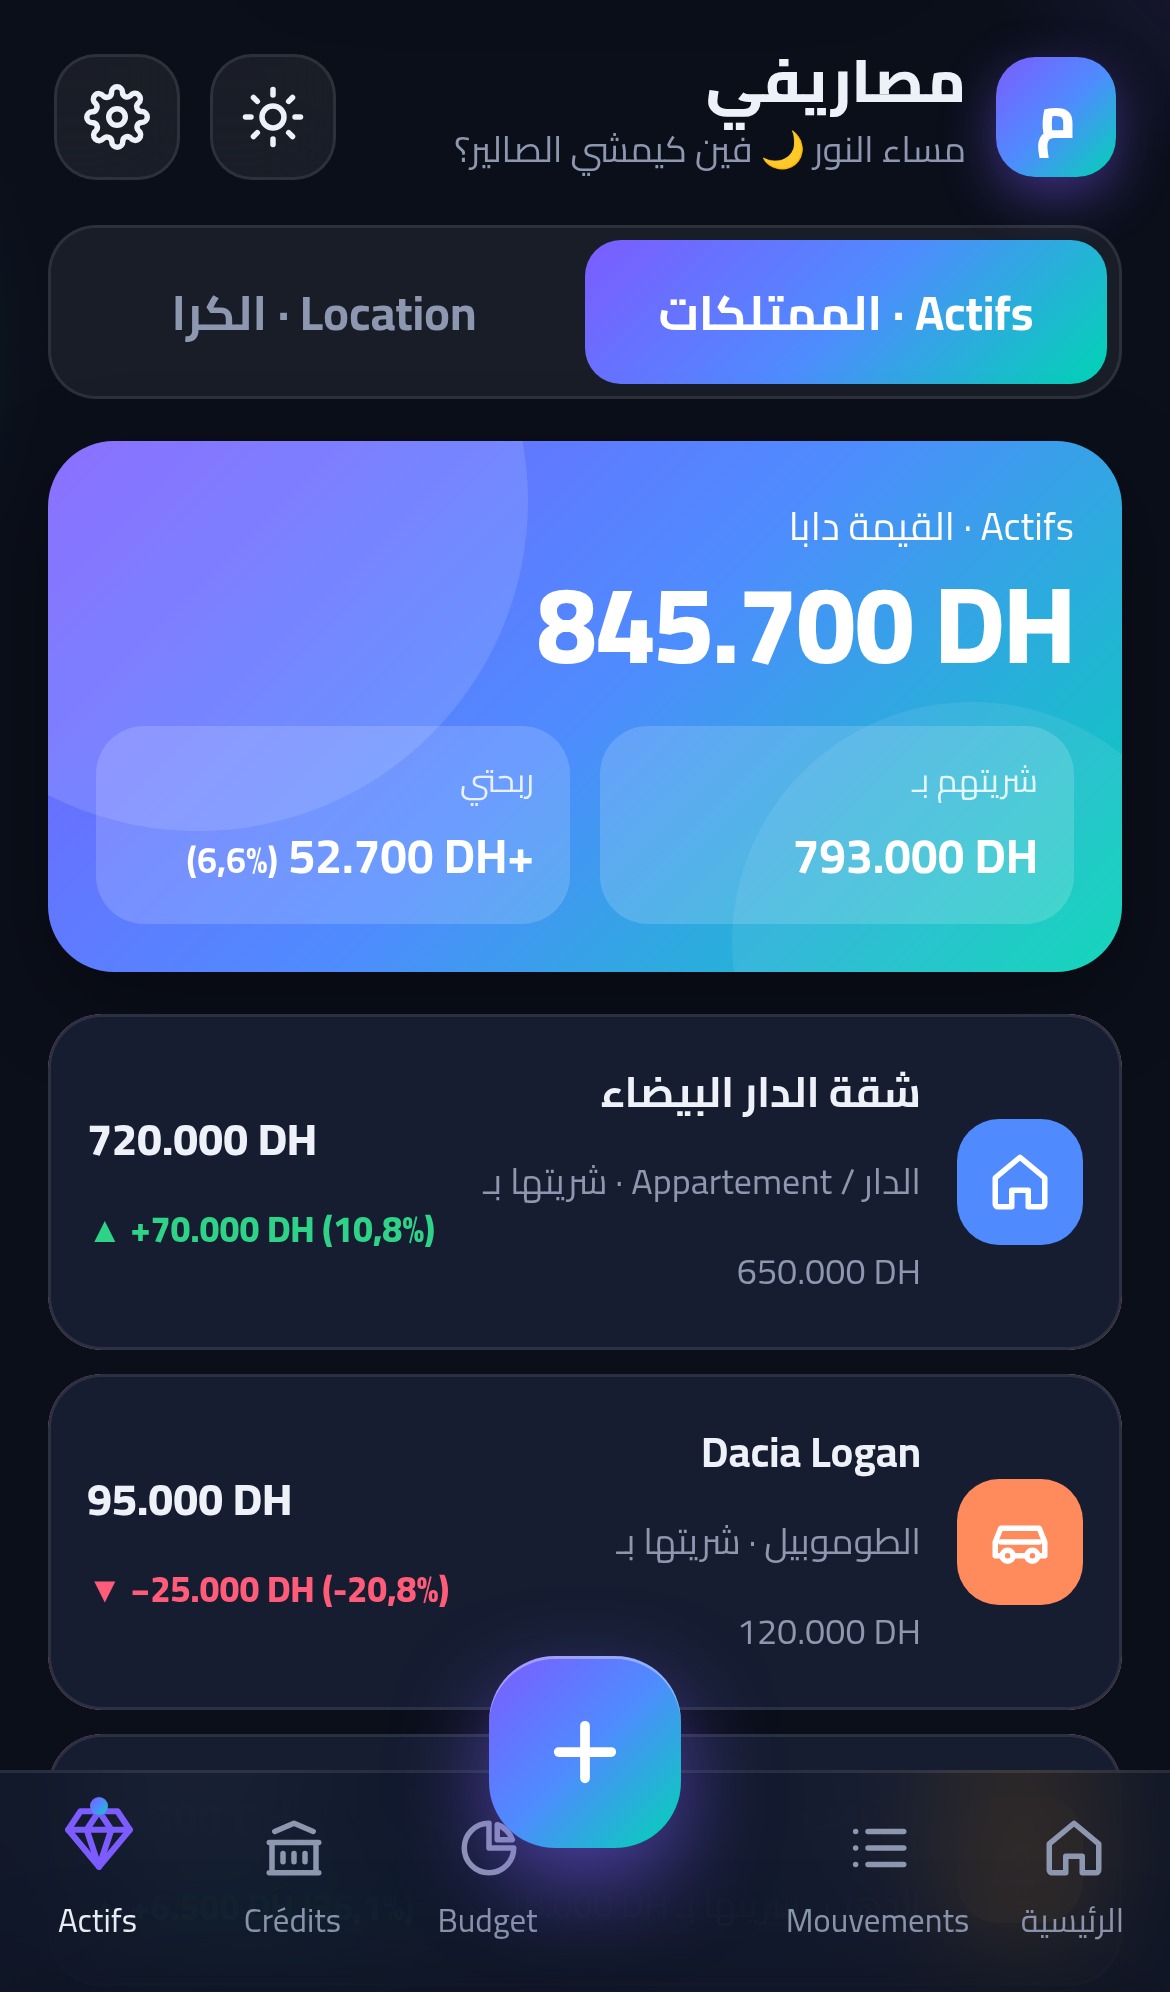
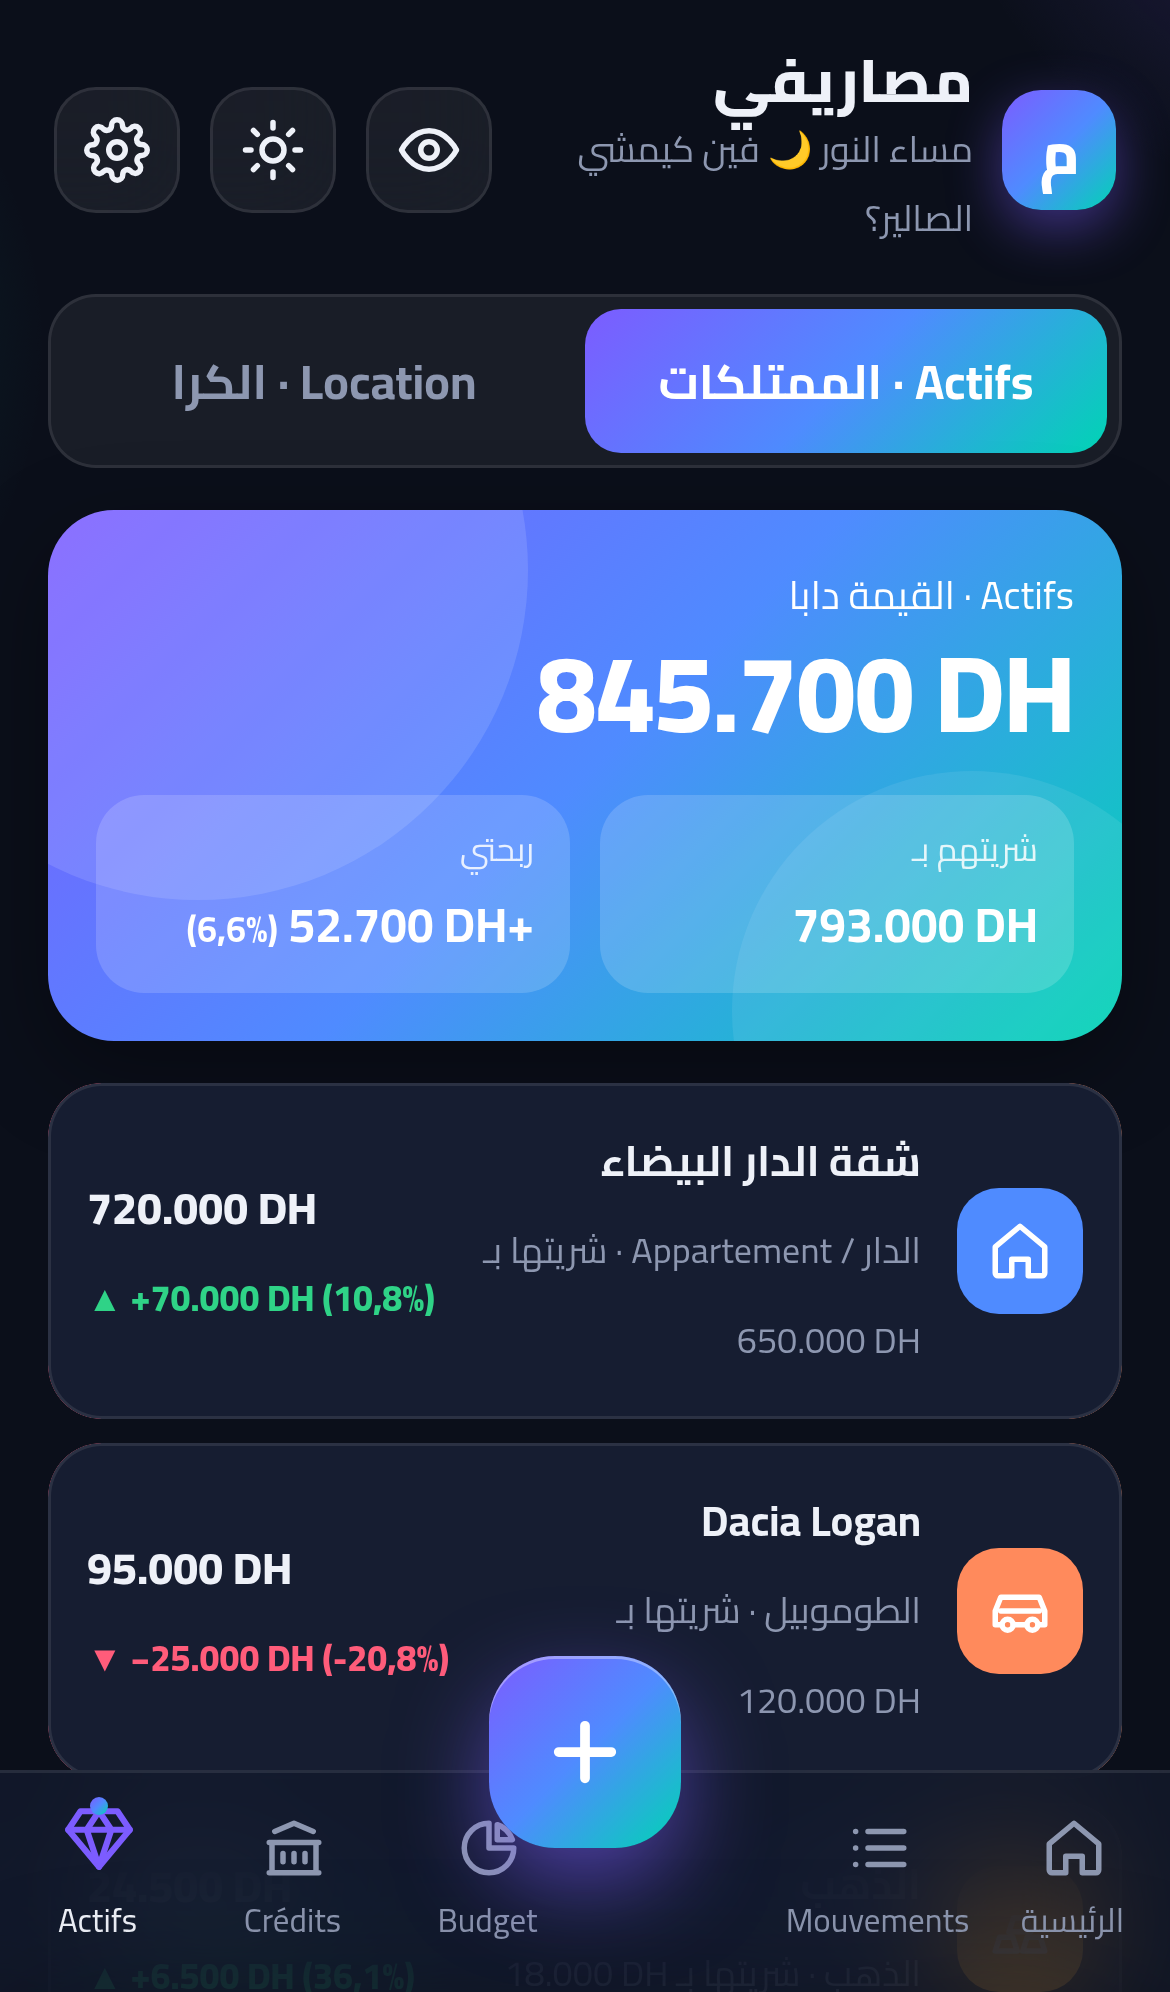
Privacy eye toggle to hide amounts; SW cache v2

diff --git a/app.js b/app.js
@@ -612,6 +612,12 @@ const ACT = {
   copyLink:() => { const u = location.origin + location.pathname + '?add=1'; (navigator.clipboard ? navigator.clipboard.writeText(u) : Promise.reject()).then(() => toast('تنسخ الرابط'), () => prompt('نسخ هاد الرابط:', u)); }
 };
 
+function setPriv(on, anim) {
+  const d = document.documentElement; if (on) d.dataset.priv = '1'; else delete d.dataset.priv;
+  try { localStorage.setItem('msarifi.priv', on ? '1' : '0'); } catch (e) {}
+  const b = $('#privBtn'); b.setAttribute('aria-pressed', on); b.setAttribute('aria-label', on ? 'بين الأرقام' : 'خبي الأرقام');
+  if (anim) { bounce(b); vib(10); toast(on ? 'الأرقام مخبية 🙈' : 'الأرقام باينة 👀', on ? 'x' : 'check'); }
+}
 function setTheme(t) {
   document.documentElement.dataset.theme = t; localStorage.setItem('msarifi.theme', t);
   $('#themeBtn').innerHTML = ic(t === 'light' ? 'moon' : 'sun'); $('#themeColor').content = t === 'light' ? '#f3f5fb' : '#0b0f1a';
@@ -620,7 +626,10 @@ function setTheme(t) {
 /* ---------- boot ---------- */
 function boot() {
   load();
-  $('#fab').innerHTML = ic('plus'); $('#settingsBtn').innerHTML = ic('settings');
+  $('#fab').innerHTML = ic('plus');
+  $('#privBtn').innerHTML = '<svg class="i eye-ic" viewBox="0 0 24 24" aria-hidden="true"><g class="eyeball"><path d="M2 12s3.5-7 10-7 10 7 10 7-3.5 7-10 7S2 12 2 12z"/><circle class="pupil" cx="12" cy="12" r="3"/></g><path class="slash" d="M3 3l18 18"/></svg>';
+  setPriv(document.documentElement.dataset.priv === '1');
+  $('#privBtn').onclick = () => setPriv(document.documentElement.dataset.priv !== '1', true); $('#settingsBtn').innerHTML = ic('settings');
   setTheme(document.documentElement.dataset.theme === 'light' ? 'light' : 'dark');
   const h = new Date().getHours(); $('#hello').textContent = h < 12 ? 'صباح الخير 👋 فين كيمشي الصالير؟' : h < 18 ? 'مساء الخير 👋 فين كيمشي الصالير؟' : 'مساء النور 🌙 فين كيمشي الصالير؟';
   document.addEventListener('pointerdown', ripple, { passive:true });

diff --git a/styles.css b/styles.css
@@ -218,7 +218,23 @@ nav.tabs button.on::after{content:"";position:absolute;top:2px;width:6px;height:
 .check.on{background:var(--ok);border-color:var(--ok);color:#fff;transform:rotate(-8deg)}
 .hint{font-size:12px;color:var(--muted);text-align:center;margin:6px 0 0}
 
+/* privacy mode */
+.num{transition:filter .45s var(--ease),opacity .45s var(--ease)}
+[data-priv="1"] .num{filter:blur(7px);opacity:.75;user-select:none}
+[data-priv="1"] .hero .num{filter:blur(9px)}
+.eye-ic .eyeball{transform-origin:12px 12px;transform-box:view-box;transition:transform .35s var(--spring)}
+.eye-ic .pupil{transform-origin:12px 12px;transform-box:view-box;transition:transform .3s var(--ease)}
+.eye-ic .slash{stroke-dasharray:26;stroke-dashoffset:26;transition:stroke-dashoffset .35s .12s var(--ease)}
+[data-priv="1"] .eye-ic .eyeball{transform:scaleY(.12)}
+[data-priv="1"] .eye-ic .pupil{transform:scale(0)}
+[data-priv="1"] .eye-ic .slash{stroke-dashoffset:0}
+[data-priv="1"] #privBtn{color:var(--primary);border-color:rgba(124,92,255,.45)}
 @media (prefers-reduced-motion:reduce){
   *,*::before,*::after{animation-duration:.001ms!important;animation-iteration-count:1!important;transition-duration:.001ms!important}
   body::before{animation:none}
 }
+header.top .row{gap:6px}
+header.top .icon-btn{width:40px;height:40px;border-radius:13px}
+.brand{min-width:0;flex:1}
+.brand>div:last-child{min-width:0}
+.brand small{white-space:nowrap;overflow:hidden;text-overflow:ellipsis}

diff --git a/index.html b/index.html
@@ -15,13 +15,14 @@
 <link rel="apple-touch-icon" href="icons/apple-touch-icon.png">
 <link rel="preload" href="fonts/cairo-arabic.woff2" as="font" type="font/woff2" crossorigin>
 <link rel="stylesheet" href="styles.css">
-<script>try{var t=localStorage.getItem('msarifi.theme');if(t)document.documentElement.dataset.theme=t;else if(matchMedia('(prefers-color-scheme: light)').matches)document.documentElement.dataset.theme='light'}catch(e){}</script>
+<script>try{var t=localStorage.getItem('msarifi.theme');if(localStorage.getItem('msarifi.priv')==='1')document.documentElement.dataset.priv='1';if(t)document.documentElement.dataset.theme=t;else if(matchMedia('(prefers-color-scheme: light)').matches)document.documentElement.dataset.theme='light'}catch(e){}</script>
 </head>
 <body>
 <div id="app">
   <header class="top">
     <div class="brand"><div class="logo">م</div><div><h1>مصاريفي</h1><small id="hello">فين كيمشي الصالير؟</small></div></div>
     <div class="row">
+      <button class="icon-btn press" id="privBtn" aria-label="خبي الأرقام" aria-pressed="false"></button>
       <button class="icon-btn press" id="themeBtn" aria-label="Thème"></button>
       <button class="icon-btn press" id="settingsBtn" aria-label="Paramètres"></button>
     </div>

diff --git a/sw.js b/sw.js
@@ -1,4 +1,4 @@
-const CACHE = 'msarifi-v1';
+const CACHE = 'msarifi-v2';
 const ASSETS = ['./', './index.html', './styles.css', './app.js', './manifest.json', './fonts/cairo-arabic.woff2', './fonts/cairo-latin.woff2', './fonts/cairo-latin-ext.woff2', './icons/icon-192.png', './icons/icon-512.png', './icons/apple-touch-icon.png'];
 self.addEventListener('install', e => { e.waitUntil(caches.open(CACHE).then(c => c.addAll(ASSETS)).then(() => self.skipWaiting())); });
 self.addEventListener('activate', e => { e.waitUntil(caches.keys().then(ks => Promise.all(ks.filter(k => k !== CACHE).map(k => caches.delete(k)))).then(() => self.clients.claim())); });
